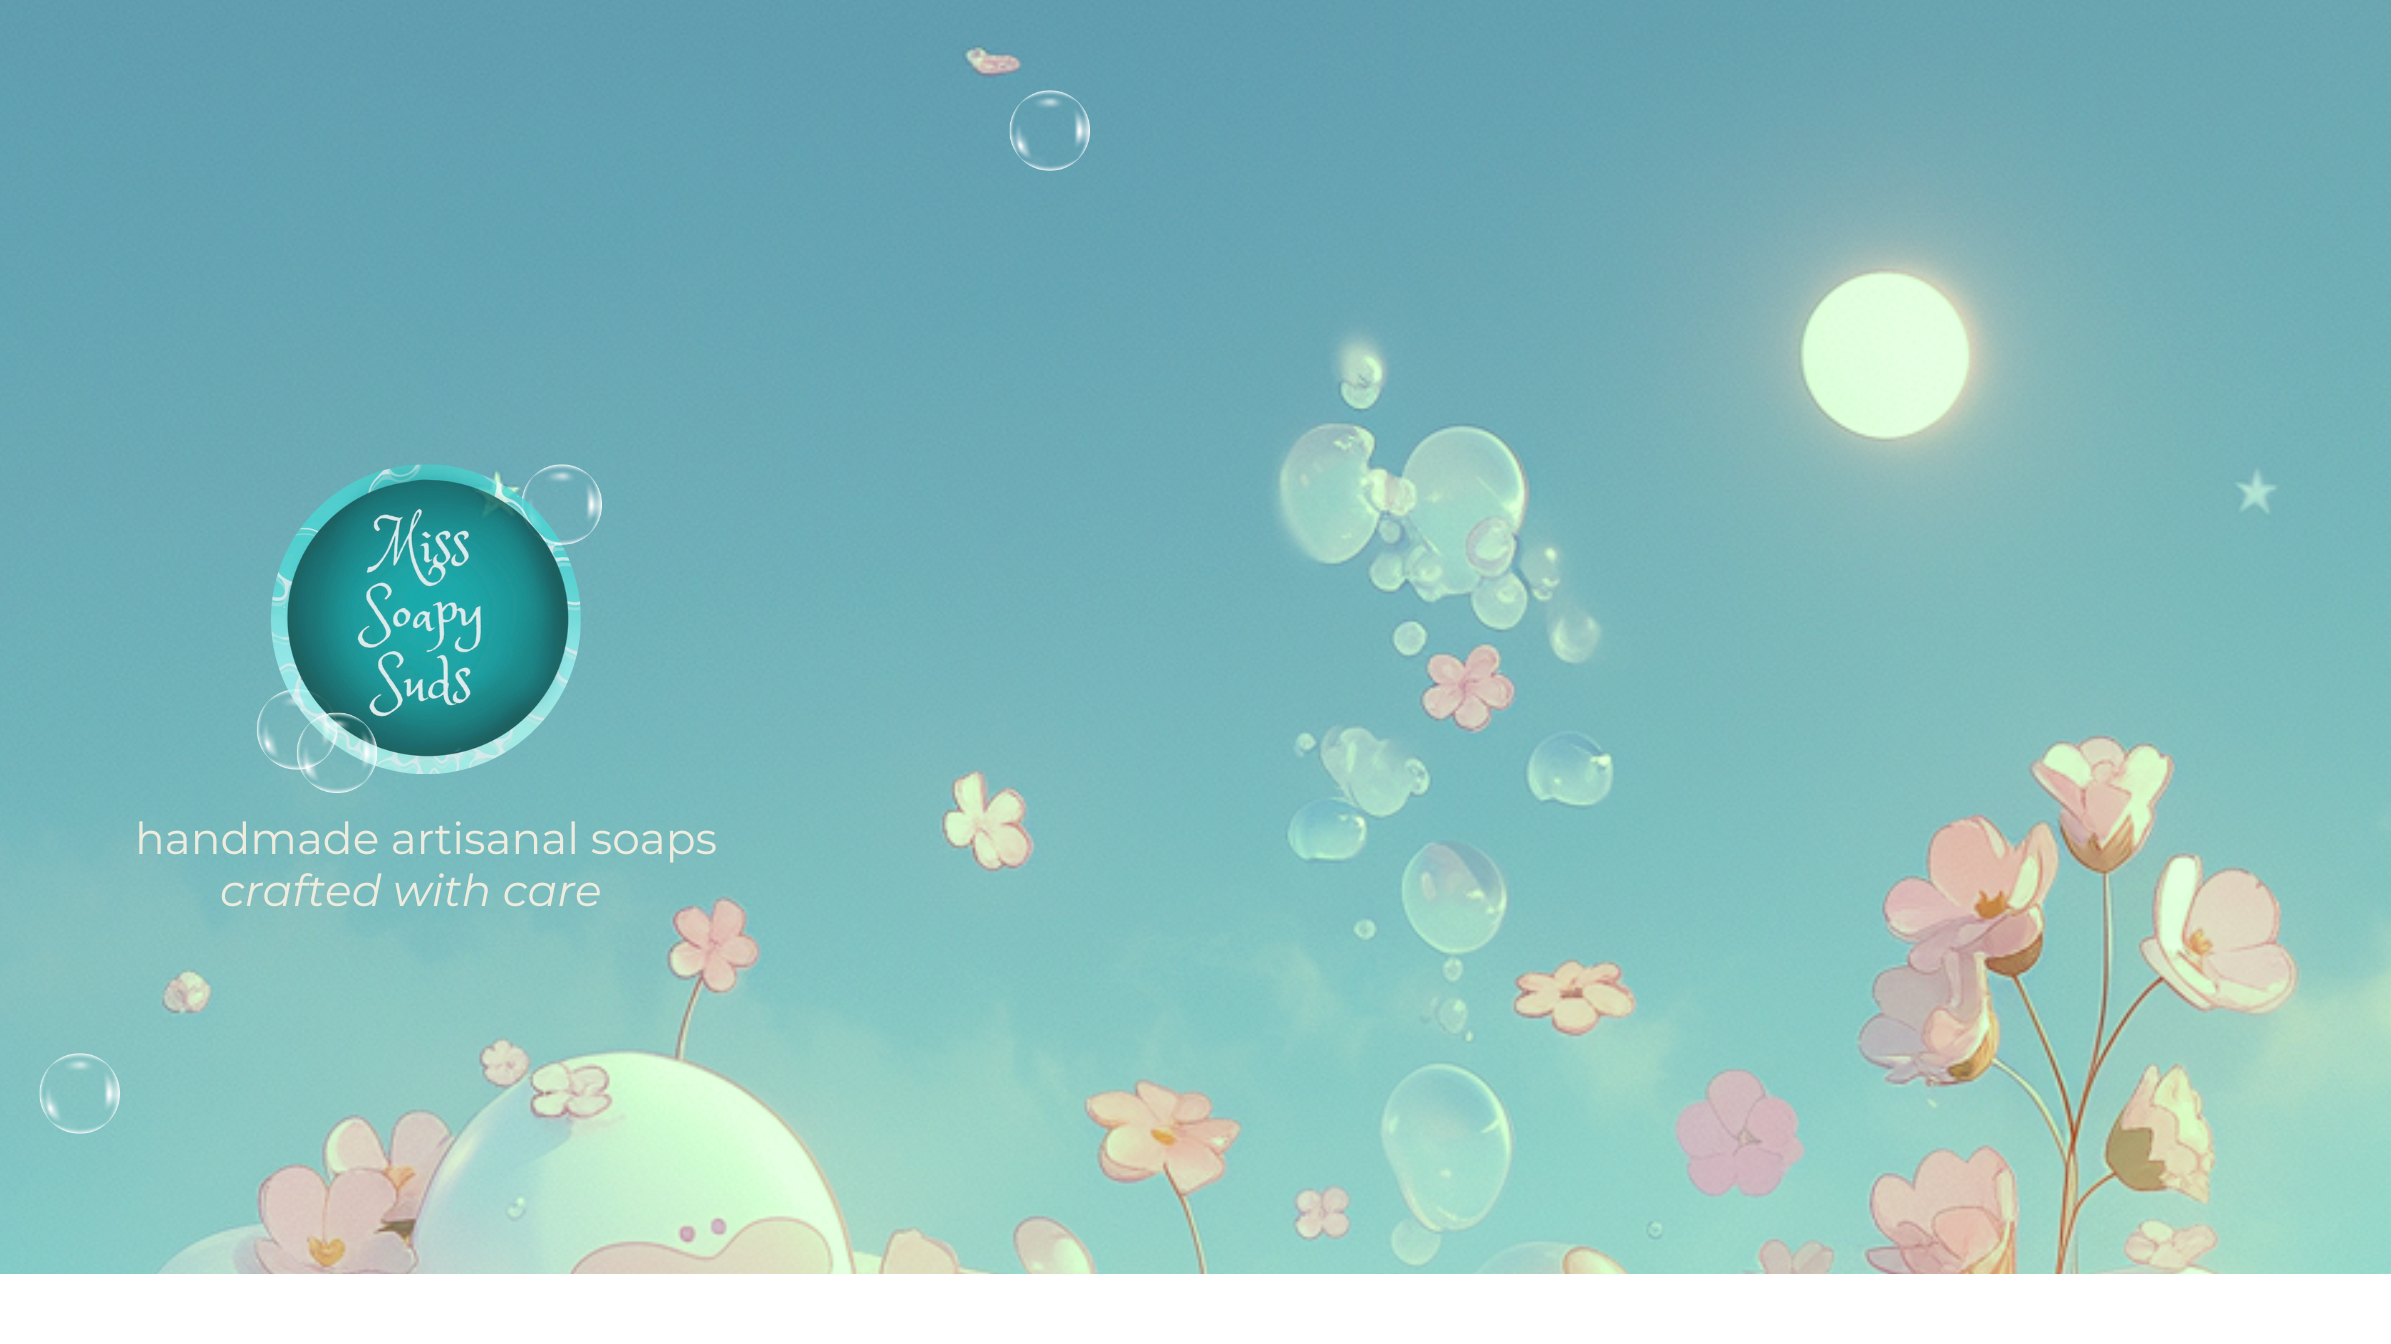
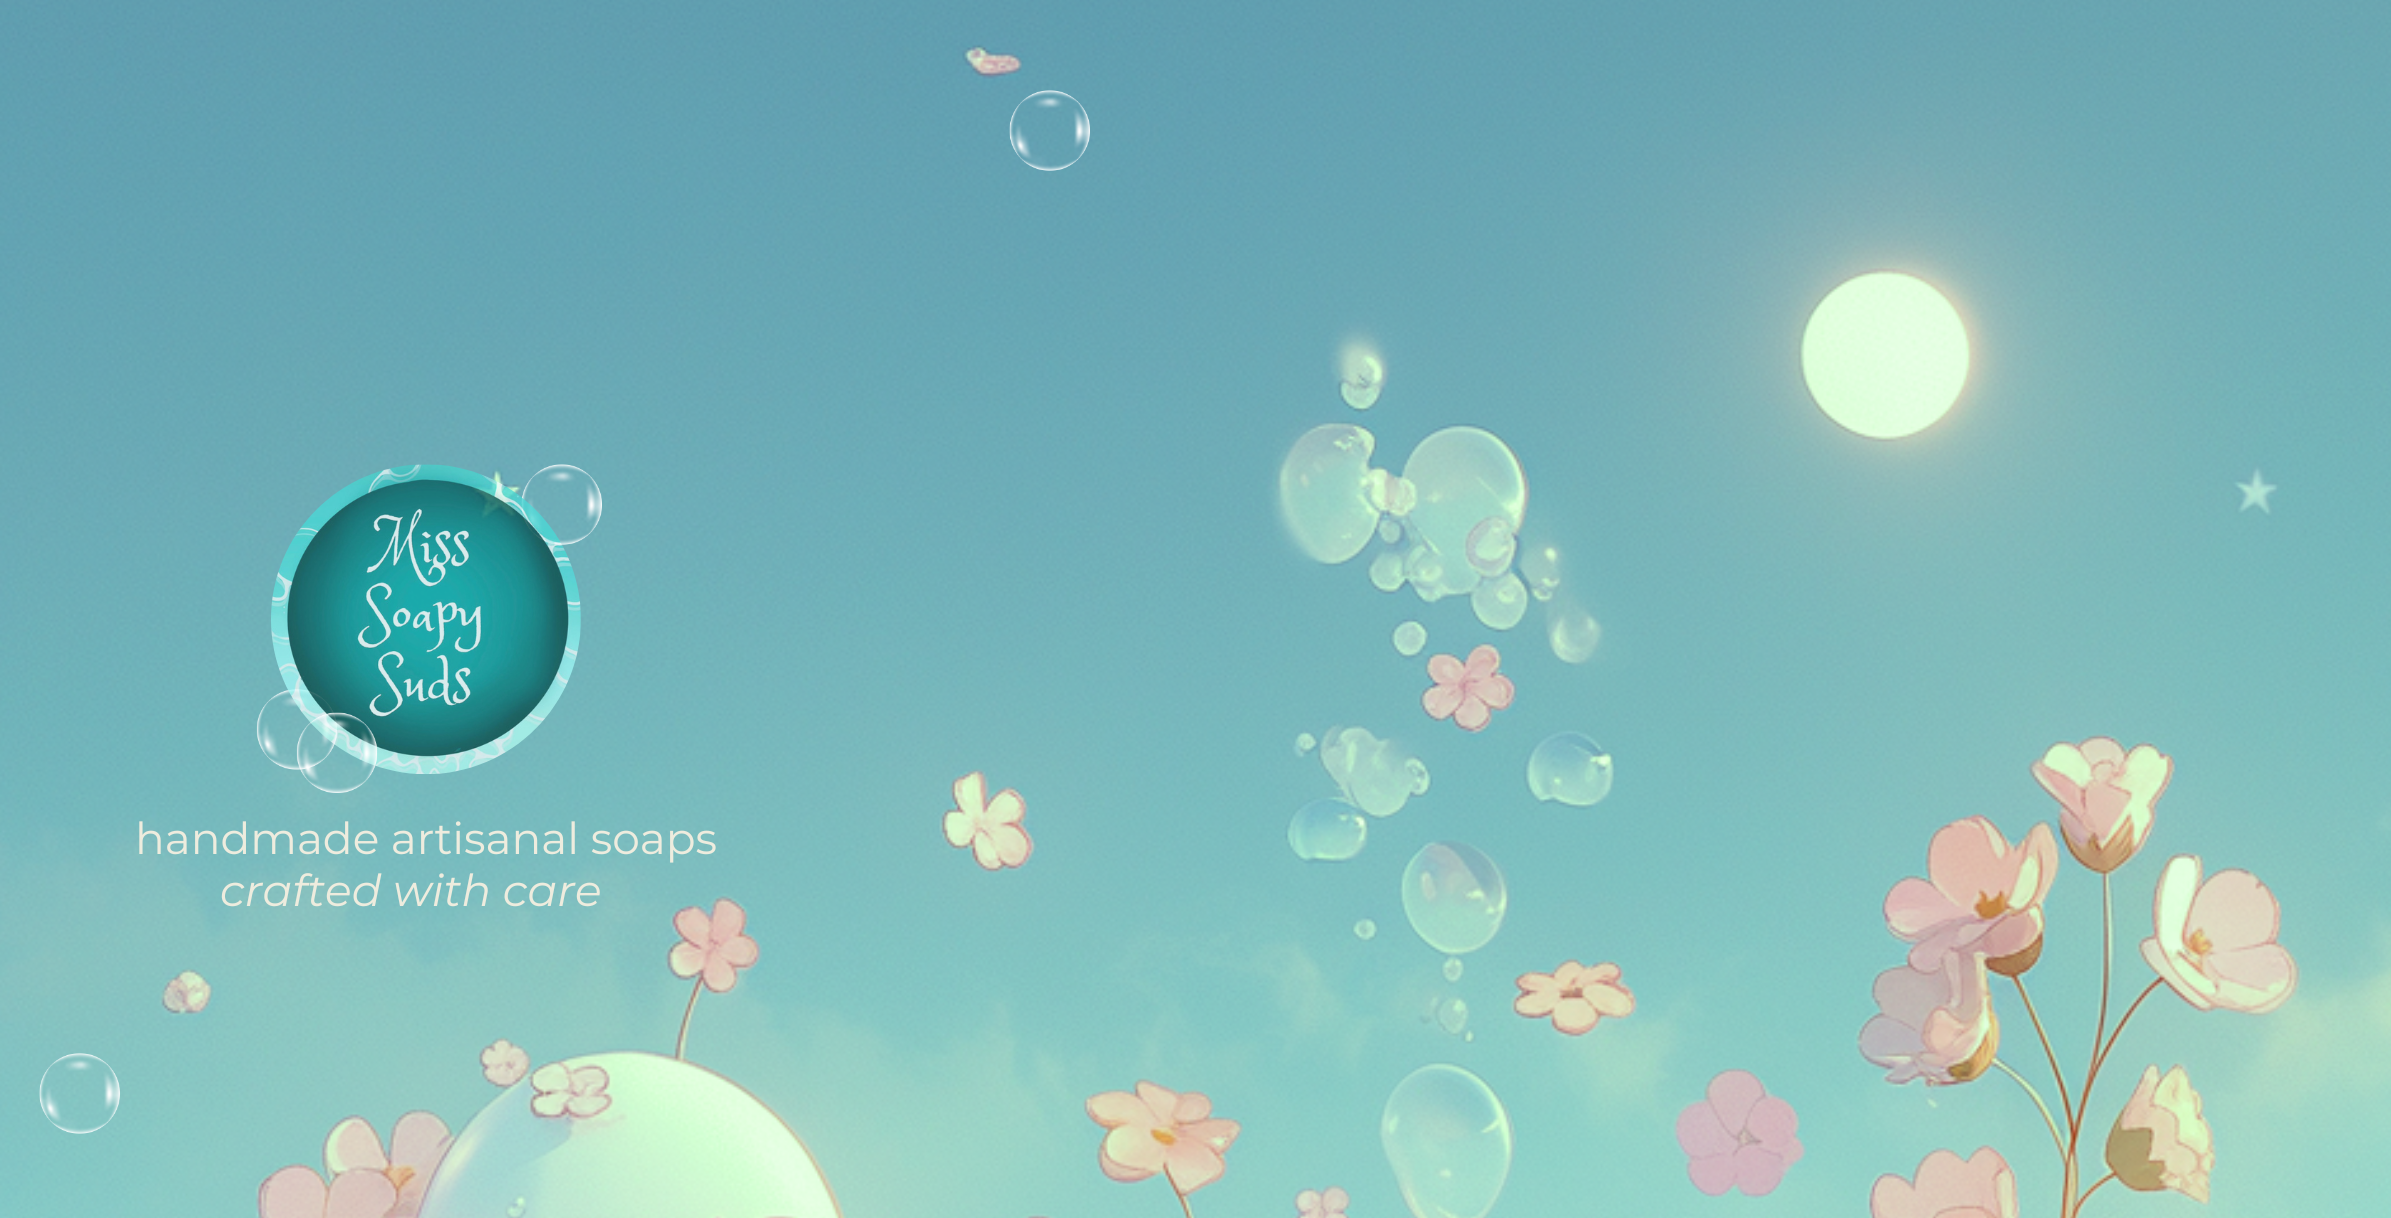
Update bathmantext image

diff --git a/src/app/page.tsx b/src/app/page.tsx
@@ -6,7 +6,7 @@ export default function Home() {
   return (
     <main className="container mx-auto bg-[var(--oceanColour)] mt-4 rounded-3xl border-4 border-[var(--cream)] overflow-hidden">
       <NavBar/>
-      <div className=" h-[700px] w-full bathboy bg-[url('https://raw.githubusercontent.com/reannab16/miss-soapy-suds-website/main/public/bathmantangl.png')] bg-contain bg-no-repeat bg-top flex flex-col items-center justify-end">
+      <div className=" h-[700px] w-full bg-[url('https://raw.githubusercontent.com/reannab16/miss-soapy-suds-website/main/public/bathmantext.png')] bg-contain bg-no-repeat bg-top flex flex-col items-center justify-end">
         <Wave/>
       </div>
       
